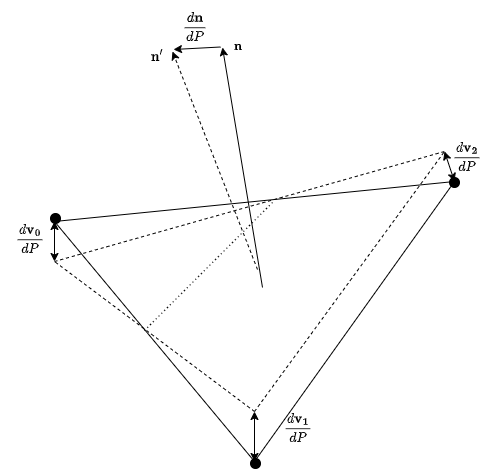
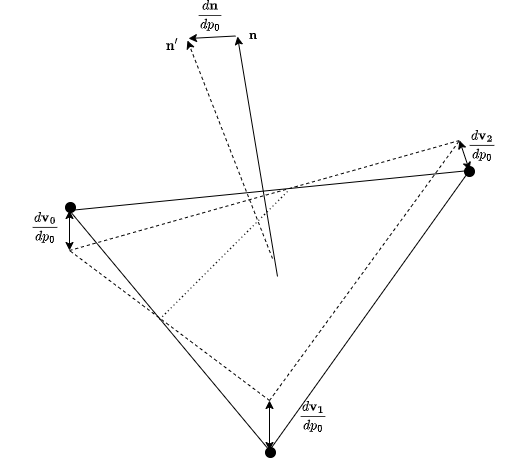
docs: improved clarity of docs

diff --git a/docs/source/documentation/theory.md b/docs/source/documentation/theory.md
@@ -1,10 +1,14 @@
-# Poor Man's Adjoint Solver
-The proposed idea is to use local piston theory to evaluate the 
-senitivity between surface pressure, and design and flow parameters. 
+# Approximating Sensitivities Using Low-Order Models
+The core idea underpinning *PySAGAS* is to use low-order models
+to evaluate sensitivities between surface pressures and cells of
+a geometry. Once these sensitivities are know, they can be linked 
+to geometric design parameters via application of the chain rule.
+
 
 From Piston Theory:
 
-$$ P = P_\infty \, \left( 1 + \frac{\gamma-1}{2} \frac{W}{a} \right) ^{\frac{2 \, \gamma}{\gamma-1}}$$
+$$ P = P_\infty \, \left( 1 + \frac{\gamma-1}{2} \frac{W}{a} \right) 
+^{\frac{2 \, \gamma}{\gamma-1}}$$
 
 This can be converted to local pressure variations as per Zhan (2009)[^1].
 
@@ -21,13 +25,23 @@ from the shape is considered when the local conditions were evaluated
 using the $\mathbf{V}_l \cdot \delta \mathbf{n}$ and the contribution 
 due to surface normal velocity $\mathbf{V}_b \cdot \mathbf{n}$.
 
-We are only interested in the first term, $\mathbf{V}_l \cdot \delta \mathbf{n}$, 
-as this relates to vehicle deformation. The second term, $\mathbf{V}_b \cdot \mathbf{n}$,
-can be discarded, since $\mathbf{V}_b = 0$ in this case.
+We are only interested in the first term, $\mathbf{V}_l \cdot \delta 
+\mathbf{n}$, as this relates to vehicle deformation. The second term, 
+$\mathbf{V}_b \cdot \mathbf{n}$, can be discarded, since 
+$\mathbf{V}_b = 0$ in this case.
 
 Thus:
 
 $$ P = P_l + \rho_l \, a_l \, \mathbf{V}_l \cdot \left( \mathbf{n}_0 - \mathbf{n} \right)$$
+
+
+The sensitivity can thus be calculated as:
+
+$$ \frac{d \, P}{d \, \mathbf{p}} = \rho_l \, a_l \, \mathbf{V}_l \cdot  \left(- \frac{d \, \mathbf{n}}{d \, \mathbf{p}} \right)$$
+
+
+
+
 
 
 [^1]: [Zhan, W.-W., Ye, Z.-Y., and Zhang, C.-A., “Supersonic Flutter 
@@ -36,8 +50,13 @@ No. 10, 2009.](https://arc.aiaa.org/doi/10.2514/1.37750)
 
 
 
-## Approach
-To get the geometry sensitivities (e.g. $\frac{d \, C_X}{d \, p}$) we will apply 
+## High-Level Approach
+
+```{tip}
+Refer to the [nomenclature](nomenclature) for definitions of symbols used here.
+```
+
+To get the geometry sensitivities (e.g. $\frac{d \, C_X}{d \, p}$) PySAGAS applies 
 the following process:
 
 1. Find effect of design parameter, $p$ on surface normal. 
@@ -50,7 +69,8 @@ $$ \rightarrow \frac{d \, P}{d \, \mathbf{n}} $$
 
 3. Get total force 
 
-$$ F_x = \sum_{i=0, \, N} P_i(p) \, A_i(p) \, \mathbf{n}(p) \cdot [1, \, 0, \, 0]^T $$
+$$ F_x = \sum_{i=0, \, N} P_i(p) \, A_i(p) \, \mathbf{n}(p) \cdot 
+[1, \, 0, \, 0]^T $$
 
 $$ \frac{d}{dp}(F_x) = $$
 
@@ -65,6 +85,11 @@ $$
 
 4. Convert to coefficient. 
 Just divide by $\frac{1}{2} \, \rho_\infty \, V_\infty^2 \, A_{ref} $ 
+
+Putting this here for later:
+
+$$ \frac{d \, \mathbf{n}}{d \, \mathbf{p}} = \frac{d \, \mathbf{n}}{d \, \mathbf{v}} \cdot \frac{d \, \mathbf{v}}{d \, \mathbf{p}} $$
+
 
 
 ## Avenues for Improvement
@@ -140,7 +165,7 @@ $$ \frac{dP}{dW} = \frac{P_{\infty} \gamma \left(2a+W\left(\gamma-1\right)\right
 
 $$ W = \mathbf{V}_l \cdot (\mathbf{n}_0 - \mathbf{n}) + \mathbf{V}_b \cdot \mathbf{n}$$
 
-$$ \frac{dW}{d\mathbf{n}} = \mathbf{V}_l + \mathbf{V}_b $$
+$$ \frac{dW}{d\mathbf{n}} = -\mathbf{V}_l + \mathbf{V}_b $$
 
 
 Next, calculate $\frac{dP}{d\mathbf{p}}$:

diff --git a/docs/source/documentation/definitions.md b/docs/source/documentation/definitions.md
@@ -1,16 +1,31 @@
-# Sensitivity Definitions
+# PySAGAS Definitions
+
+This page defines all symbols, terms and data types used by *PySAGAS*.
 
 
+(nomenclature)=
 ## Nomenclature
+The nomenclature used by *PySAGAS* is defined in the table below.
+
 | Symbol | Description |
 | ------ | ----------- |
 | **v** | Vertex vector |
 | **n** | Normal vector |
+| **p** | Design parameters vector |
 | P | Pressure |
 | A | Area |
 
 
+
+(cell-definition)=
 ## Cell Definition
+A "Cell" in *PySAGAS* is a triangular element, defined by three 
+unique vectors pointing to the cell's vertices, 
+$\mathbf{v_0}, \mathbf{v_1}$ and $\mathbf{v_2}$. These vertices
+form the corners of the triangular cell, and also form the face 
+of the cell. This face has both an area $A$ and a normal vector
+$\mathbf{n}$ associated with it. These properties are defined in
+the figure below.
 
 ```{seealso}
 The Cell definition shown below is consistent with the
@@ -23,21 +38,51 @@ The Cell definition shown below is consistent with the
 
 ## Vertex Sensitivities
 
+Given the definition of a [Cell](pysagas.geometry.Cell) above,
+the cell vertex sensitivities can be defined. These sensitivities
+include the cell normal/vertex sensitivity 
+$\frac{d\mathbf{n}}{d\mathbf{v}}$, and the cell area/vertex 
+sensitivity $\frac{dA}{d\mathbf{v}}$. 
+
+The figure below illustrates how a cell's normal vector and area
+changes with variations in one of its vertices, $\mathbf{v_2}$
+to $\mathbf{v_2}'$.
+
 ![Vertex Sensitivity](../_static/d_dv.png)
 
-![Area-Vertex Sensitivity](../_static/eq_dAdv.svg)
+
+These sensitivities are calculated using analytical derivitives. The 
+output of this is a matrix for each sensitivity, of the dimensionality
+shown below.
 
 ![Normal-Vertex Sensitivity](../_static/eq_dndv.svg)
 
+![Area-Vertex Sensitivity](../_static/eq_dAdv.svg)
 
 
-## Parameter Sensitivities
+## Geometric Parameter Sensitivities
+
+Although users of *PySAGAS* are required to provide their own geometric
+parameter sensitivities, the figure below may be insightful. To be clear,
+a user must provide the sensitivity of each vertex defining a geometry
+to the design parameters, that is, $\frac{d\mathbf{v}}{d\mathbf{p}}$. The 
+diagram in the figure below illustrates a cell's vertices changing as a 
+result of a change in a parameter $p_0$.
 
 ![Parameter Sensitivities](../_static/d_dP.png)
 
-![Area-Parameter Sensitivity](../_static/eq_dAdP.svg)
+Given $\frac{d\mathbf{v}}{d\mathbf{p}}$, the sensitivity of both the cell
+normals and cell areas to the deisgn parameters can be calculated using
+the chain rule, as per the equations below.
 
-![Normal-Parameter Sensitivity](../_static/eq_dndP.svg)
+$$
+\frac{d\mathbf{n}}{d\mathbf{p}} = \frac{d\mathbf{n}}{d\mathbf{v}} \frac{d\mathbf{v}}{d\mathbf{p}}
+$$
+
+
+$$
+\frac{dA}{d\mathbf{p}} = \frac{dA}{d\mathbf{v}} \frac{d\mathbf{v}}{d\mathbf{p}}
+$$
 
 
 

diff --git a/docs/source/examples/ramp_3d.md b/docs/source/examples/ramp_3d.md
@@ -1,11 +1,19 @@
-# 3D Ramp Example
+# Inclined Ramp Example
 
-A simple test case is a ramp at angle $\theta$, with length $L$ and 
-width $W$. The parameters of this problem are
- $\mathbf{p} = [\theta, \, L, \, W]$
+This page covers a simple test case of an inclined ramp.
 
 
-## Free Stream Conditions
+## Problem Definition
+
+The parameters of this problem are 
+$\mathbf{p} = [\theta, \, L, \, W]$, shown
+diagramatically in the figure below. The geometry is
+built from two [cells](cell-definition), sharing a common edge.
+
+
+![Inclined Ramp Example Study](../_static/ramp.png)
+
+### Free Stream Conditions
 The freestream conditions are defined below.
 
 $$\gamma = 1.4$$
@@ -17,35 +25,22 @@ $$ P_{freestream} = 700 Pa$$
 $$ T_{freestream} = 70 K$$
 
 
-
-## Calculate sensitivities using local piston theory
-
-### Step 1: Work out $\frac{d \, \mathbf{n}}{d \, \mathbf{p}}$
-
-This is done in a two stage process:
-
-$$ \frac{d \, \mathbf{n}}{d \, \mathbf{p}} = \frac{d \, \mathbf{n}}{d \, \mathbf{pos}} \cdot \frac{d \, \mathbf{pos}}{d \, \mathbf{p}} $$
+## Analytical Solution
+This problem can be solved analytically using simple
+isentropic flow relations. This solution will later
+serve as validation for the results obtained using
+*PySAGAS*.
 
 
 
-## Step 2: Do pressure Caculation and differentiate $\frac{d \, P}{d \, \mathbf{p}}$
 
-This is a straightforward calculation:
-
-$$ P = P_l + \rho_l \, a_l \, \mathbf{V}_l \cdot \left( \mathbf{n}_0 - \mathbf{n} \right)$$
-
-Hence
-
-$$ \frac{d \, P}{d \, \mathbf{p}} = \rho_l \, a_l \, \mathbf{V}_l \cdot  \left(- \frac{d \, \mathbf{n}}{d \, \mathbf{p}} \right)$$
+## PySAGAS Solution
+Given the surface properties on the ramp calculated using
+the analytical solution, the parameter sensitivities can
+be approximated using *PySAGAS*.
 
 
 
-## Step 3: Integrate to get force contribution (actually summation) $\frac{d \, F_i}{d \, \mathbf{p}}$
 
-$$ F_x = P(p) \, A(p) \, \mathbf{n}(p) \cdot [1, \, 0, \, 0]^T $$
-
-$$ \frac{d}{d \, \mathbf{p}}(F_x) = \frac{d \, P}{d \, \mathbf{p}} \, A(p) \, \mathbf{n}(p) \cdot [1, \, 0, \, 0]^T 
-                      + P(p) \, \frac{d \, A}{d \, \mathbf{p}} \, \mathbf{n}(p) \cdot [1, \, 0, \, 0]^T
-                      + P(p) \, A(p) \, \frac{d \, \mathbf{n}}{d \, \mathbf{p}} \cdot [1, \, 0, \, 0]^T $$
 
 

diff --git a/docs/source/index.md b/docs/source/index.md
@@ -6,8 +6,8 @@
 :end-before: <!-- end intro -->
 ```
 
-See the [Getting Started](documentation/getting-started) guide, or have a look
-at the [examples](examples/ramp_3d.md).
+See the [Getting Started](documentation/getting-started) guide, 
+or have a look at the [examples](examples/ramp_3d.md).
 
 
 ```{toctree}
@@ -16,6 +16,7 @@ at the [examples](examples/ramp_3d.md).
 :caption: DOCUMENTATION
 
 Getting Started <documentation/getting-started>
+Usage <documentation/usage>
 Theory <documentation/theory>
 Definitions <documentation/definitions>
 ```
@@ -26,7 +27,7 @@ Definitions <documentation/definitions>
 :hidden:
 :caption: Case Studies
 
-3D Ramp <examples/ramp_3d>
+Inclined Ramp <examples/ramp_3d>
 Sharp Wedge <examples/sharp_wedge>
 ```
 

diff --git a/README.md b/README.md
@@ -76,8 +76,12 @@ python3 -m pip install pysagas
 
 
 ## Usage
+
+<!-- start usage -->
 Detailed usage instructions coming soon.
 
+
+<!-- end usage -->
 
 <p align="right">[<a href="#readme-top">back to top</a>]</p>
 

diff --git a/docs/source/documentation/usage.md b/docs/source/documentation/usage.md
@@ -1,0 +1,6 @@
+# Using PySAGAS
+
+```{include} ../../../README.md
+:start-after: <!-- start usage -->
+:end-before: <!-- end usage -->
+```
